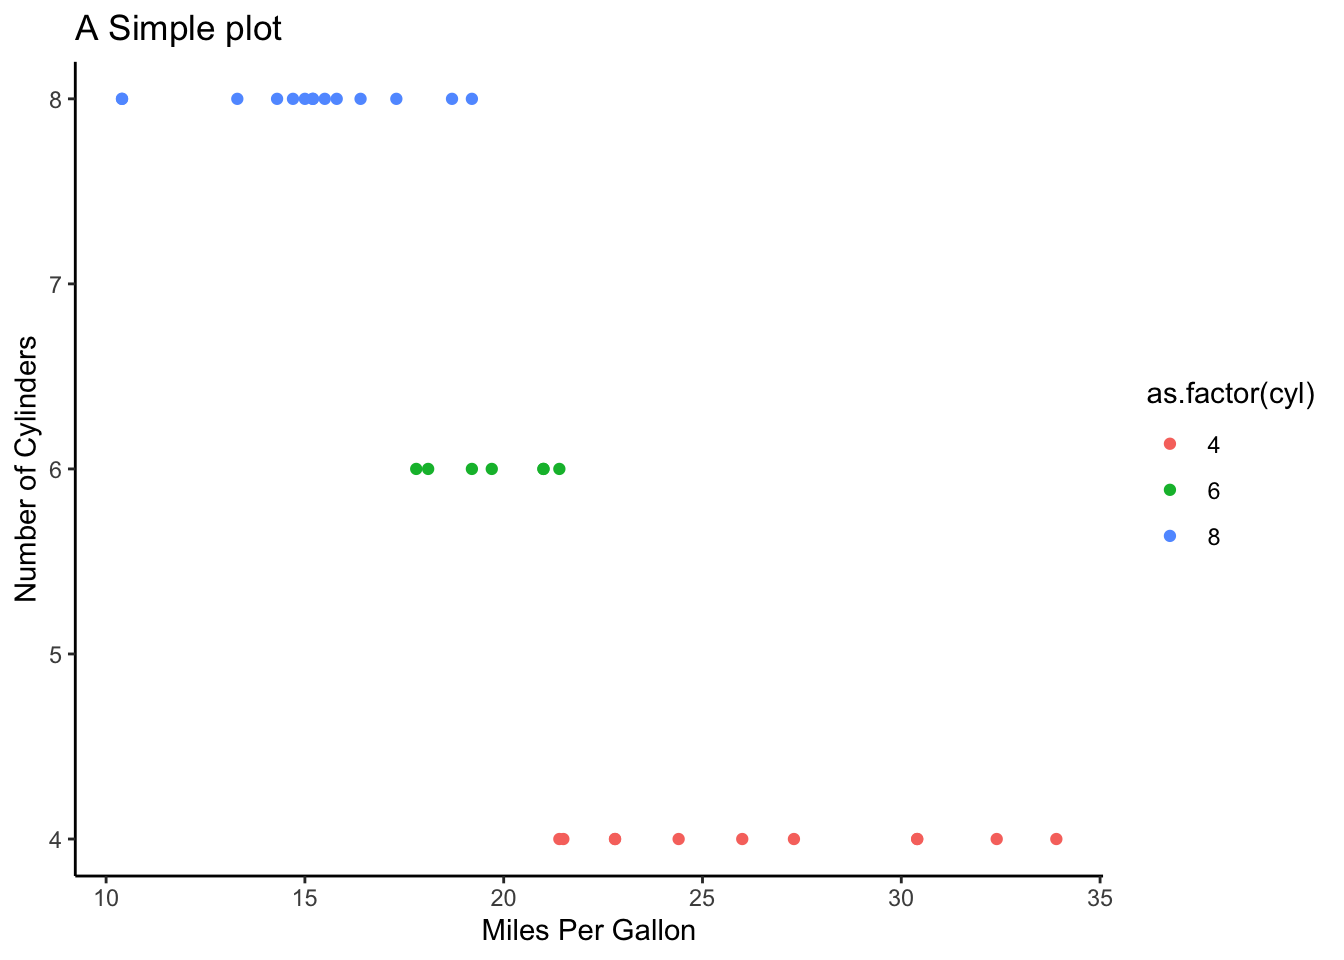
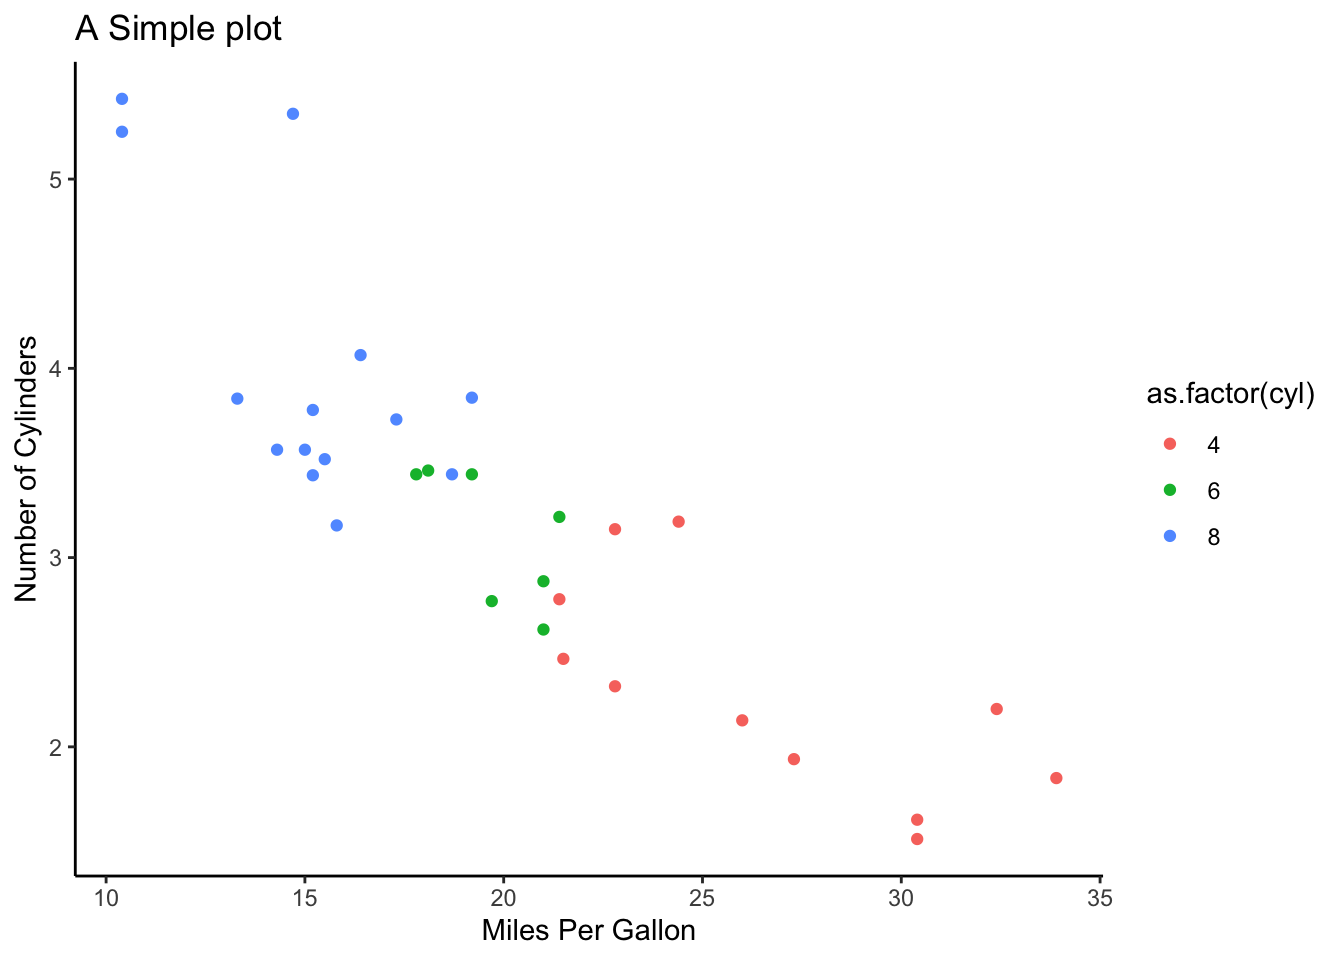
Added proper video / webm support

diff --git a/content/post/2021-05-01-brrr/index.html b/content/post/2021-05-01-brrr/index.html
@@ -30,14 +30,16 @@ end </code></pre>
 <iframe src="https://gfycat.com/ifr/jointslimyaidi" frameborder="0" scrolling="no" width="100%" height="100%" style="position:absolute;top:0;left:0;float:right" allowfullscreen>
 </iframe>
 </div>
-<p>Some additional text here</p>
-<p>to clash with</p>
+<p>What about if I embed it as a video?</p>
+<video width="100%"  autoplay loop>
+<source src="https://thumbs.gfycat.com/JointSlimyAidi-mobile.mp4" type="video/mp4">
+</video>
 <pre class="r"><code># That&#39;s a real shame.
 print(&quot;Sad!&quot;)</code></pre>
 <pre><code>## [1] &quot;Sad!&quot;</code></pre>
 <p>Can I reference the plot <a href="#fig:aplot">1</a> which is right below?</p>
 <pre class="r"><code>library(ggplot2)
-p &lt;- ggplot(mtcars, aes(mpg, cyl, colour = as.factor(cyl))) + 
+p &lt;- ggplot(mtcars, aes(mpg, wt, colour = as.factor(cyl))) + 
   geom_point() + 
   theme_classic() + 
   labs(title = &quot;A Simple plot&quot;, 
@@ -54,7 +56,7 @@ Figure 1: Wow, just look at that plot!
 <pre class="r"><code>plotly::ggplotly(p)</code></pre>
 <div class="figure" style="text-align: center"><span style="display:block;" id="fig:bplot"></span>
 <div id="htmlwidget-1" style="width:672px;height:480px;" class="plotly html-widget"></div>
-<script type="application/json" data-for="htmlwidget-1">{"x":{"data":[{"x":[22.8,24.4,22.8,32.4,30.4,33.9,21.5,27.3,26,30.4,21.4],"y":[4,4,4,4,4,4,4,4,4,4,4],"text":["mpg: 22.8<br />cyl: 4<br />as.factor(cyl): 4","mpg: 24.4<br />cyl: 4<br />as.factor(cyl): 4","mpg: 22.8<br />cyl: 4<br />as.factor(cyl): 4","mpg: 32.4<br />cyl: 4<br />as.factor(cyl): 4","mpg: 30.4<br />cyl: 4<br />as.factor(cyl): 4","mpg: 33.9<br />cyl: 4<br />as.factor(cyl): 4","mpg: 21.5<br />cyl: 4<br />as.factor(cyl): 4","mpg: 27.3<br />cyl: 4<br />as.factor(cyl): 4","mpg: 26.0<br />cyl: 4<br />as.factor(cyl): 4","mpg: 30.4<br />cyl: 4<br />as.factor(cyl): 4","mpg: 21.4<br />cyl: 4<br />as.factor(cyl): 4"],"type":"scatter","mode":"markers","marker":{"autocolorscale":false,"color":"rgba(248,118,109,1)","opacity":1,"size":5.66929133858268,"symbol":"circle","line":{"width":1.88976377952756,"color":"rgba(248,118,109,1)"}},"hoveron":"points","name":"4","legendgroup":"4","showlegend":true,"xaxis":"x","yaxis":"y","hoverinfo":"text","frame":null},{"x":[21,21,21.4,18.1,19.2,17.8,19.7],"y":[6,6,6,6,6,6,6],"text":["mpg: 21.0<br />cyl: 6<br />as.factor(cyl): 6","mpg: 21.0<br />cyl: 6<br />as.factor(cyl): 6","mpg: 21.4<br />cyl: 6<br />as.factor(cyl): 6","mpg: 18.1<br />cyl: 6<br />as.factor(cyl): 6","mpg: 19.2<br />cyl: 6<br />as.factor(cyl): 6","mpg: 17.8<br />cyl: 6<br />as.factor(cyl): 6","mpg: 19.7<br />cyl: 6<br />as.factor(cyl): 6"],"type":"scatter","mode":"markers","marker":{"autocolorscale":false,"color":"rgba(0,186,56,1)","opacity":1,"size":5.66929133858268,"symbol":"circle","line":{"width":1.88976377952756,"color":"rgba(0,186,56,1)"}},"hoveron":"points","name":"6","legendgroup":"6","showlegend":true,"xaxis":"x","yaxis":"y","hoverinfo":"text","frame":null},{"x":[18.7,14.3,16.4,17.3,15.2,10.4,10.4,14.7,15.5,15.2,13.3,19.2,15.8,15],"y":[8,8,8,8,8,8,8,8,8,8,8,8,8,8],"text":["mpg: 18.7<br />cyl: 8<br />as.factor(cyl): 8","mpg: 14.3<br />cyl: 8<br />as.factor(cyl): 8","mpg: 16.4<br />cyl: 8<br />as.factor(cyl): 8","mpg: 17.3<br />cyl: 8<br />as.factor(cyl): 8","mpg: 15.2<br />cyl: 8<br />as.factor(cyl): 8","mpg: 10.4<br />cyl: 8<br />as.factor(cyl): 8","mpg: 10.4<br />cyl: 8<br />as.factor(cyl): 8","mpg: 14.7<br />cyl: 8<br />as.factor(cyl): 8","mpg: 15.5<br />cyl: 8<br />as.factor(cyl): 8","mpg: 15.2<br />cyl: 8<br />as.factor(cyl): 8","mpg: 13.3<br />cyl: 8<br />as.factor(cyl): 8","mpg: 19.2<br />cyl: 8<br />as.factor(cyl): 8","mpg: 15.8<br />cyl: 8<br />as.factor(cyl): 8","mpg: 15.0<br />cyl: 8<br />as.factor(cyl): 8"],"type":"scatter","mode":"markers","marker":{"autocolorscale":false,"color":"rgba(97,156,255,1)","opacity":1,"size":5.66929133858268,"symbol":"circle","line":{"width":1.88976377952756,"color":"rgba(97,156,255,1)"}},"hoveron":"points","name":"8","legendgroup":"8","showlegend":true,"xaxis":"x","yaxis":"y","hoverinfo":"text","frame":null}],"layout":{"margin":{"t":43.7625570776256,"r":7.30593607305936,"b":40.1826484018265,"l":31.4155251141553},"plot_bgcolor":"rgba(255,255,255,1)","paper_bgcolor":"rgba(255,255,255,1)","font":{"color":"rgba(0,0,0,1)","family":"","size":14.6118721461187},"title":{"text":"A Simple plot","font":{"color":"rgba(0,0,0,1)","family":"","size":17.5342465753425},"x":0,"xref":"paper"},"xaxis":{"domain":[0,1],"automargin":true,"type":"linear","autorange":false,"range":[9.225,35.075],"tickmode":"array","ticktext":["10","15","20","25","30","35"],"tickvals":[10,15,20,25,30,35],"categoryorder":"array","categoryarray":["10","15","20","25","30","35"],"nticks":null,"ticks":"outside","tickcolor":"rgba(51,51,51,1)","ticklen":3.65296803652968,"tickwidth":0.66417600664176,"showticklabels":true,"tickfont":{"color":"rgba(77,77,77,1)","family":"","size":11.689497716895},"tickangle":-0,"showline":true,"linecolor":"rgba(0,0,0,1)","linewidth":0.66417600664176,"showgrid":false,"gridcolor":null,"gridwidth":0,"zeroline":false,"anchor":"y","title":{"text":"Miles Per Gallon","font":{"color":"rgba(0,0,0,1)","family":"","size":14.6118721461187}},"hoverformat":".2f"},"yaxis":{"domain":[0,1],"automargin":true,"type":"linear","autorange":false,"range":[3.8,8.2],"tickmode":"array","ticktext":["4","5","6","7","8"],"tickvals":[4,5,6,7,8],"categoryorder":"array","categoryarray":["4","5","6","7","8"],"nticks":null,"ticks":"outside","tickcolor":"rgba(51,51,51,1)","ticklen":3.65296803652968,"tickwidth":0.66417600664176,"showticklabels":true,"tickfont":{"color":"rgba(77,77,77,1)","family":"","size":11.689497716895},"tickangle":-0,"showline":true,"linecolor":"rgba(0,0,0,1)","linewidth":0.66417600664176,"showgrid":false,"gridcolor":null,"gridwidth":0,"zeroline":false,"anchor":"x","title":{"text":"Number of Cylinders","font":{"color":"rgba(0,0,0,1)","family":"","size":14.6118721461187}},"hoverformat":".2f"},"shapes":[{"type":"rect","fillcolor":null,"line":{"color":null,"width":0,"linetype":[]},"yref":"paper","xref":"paper","x0":0,"x1":1,"y0":0,"y1":1}],"showlegend":true,"legend":{"bgcolor":"rgba(255,255,255,1)","bordercolor":"transparent","borderwidth":1.88976377952756,"font":{"color":"rgba(0,0,0,1)","family":"","size":11.689497716895},"y":0.913385826771654},"annotations":[{"text":"as.factor(cyl)","x":1.02,"y":1,"showarrow":false,"ax":0,"ay":0,"font":{"color":"rgba(0,0,0,1)","family":"","size":14.6118721461187},"xref":"paper","yref":"paper","textangle":-0,"xanchor":"left","yanchor":"bottom","legendTitle":true}],"hovermode":"closest","barmode":"relative"},"config":{"doubleClick":"reset","showSendToCloud":false},"source":"A","attrs":{"7955675a230f":{"x":{},"y":{},"colour":{},"type":"scatter"}},"cur_data":"7955675a230f","visdat":{"7955675a230f":["function (y) ","x"]},"highlight":{"on":"plotly_click","persistent":false,"dynamic":false,"selectize":false,"opacityDim":0.2,"selected":{"opacity":1},"debounce":0},"shinyEvents":["plotly_hover","plotly_click","plotly_selected","plotly_relayout","plotly_brushed","plotly_brushing","plotly_clickannotation","plotly_doubleclick","plotly_deselect","plotly_afterplot","plotly_sunburstclick"],"base_url":"https://plot.ly"},"evals":[],"jsHooks":[]}</script>
+<script type="application/json" data-for="htmlwidget-1">{"x":{"data":[{"x":[22.8,24.4,22.8,32.4,30.4,33.9,21.5,27.3,26,30.4,21.4],"y":[2.32,3.19,3.15,2.2,1.615,1.835,2.465,1.935,2.14,1.513,2.78],"text":["mpg: 22.8<br />wt: 2.320<br />as.factor(cyl): 4","mpg: 24.4<br />wt: 3.190<br />as.factor(cyl): 4","mpg: 22.8<br />wt: 3.150<br />as.factor(cyl): 4","mpg: 32.4<br />wt: 2.200<br />as.factor(cyl): 4","mpg: 30.4<br />wt: 1.615<br />as.factor(cyl): 4","mpg: 33.9<br />wt: 1.835<br />as.factor(cyl): 4","mpg: 21.5<br />wt: 2.465<br />as.factor(cyl): 4","mpg: 27.3<br />wt: 1.935<br />as.factor(cyl): 4","mpg: 26.0<br />wt: 2.140<br />as.factor(cyl): 4","mpg: 30.4<br />wt: 1.513<br />as.factor(cyl): 4","mpg: 21.4<br />wt: 2.780<br />as.factor(cyl): 4"],"type":"scatter","mode":"markers","marker":{"autocolorscale":false,"color":"rgba(248,118,109,1)","opacity":1,"size":5.66929133858268,"symbol":"circle","line":{"width":1.88976377952756,"color":"rgba(248,118,109,1)"}},"hoveron":"points","name":"4","legendgroup":"4","showlegend":true,"xaxis":"x","yaxis":"y","hoverinfo":"text","frame":null},{"x":[21,21,21.4,18.1,19.2,17.8,19.7],"y":[2.62,2.875,3.215,3.46,3.44,3.44,2.77],"text":["mpg: 21.0<br />wt: 2.620<br />as.factor(cyl): 6","mpg: 21.0<br />wt: 2.875<br />as.factor(cyl): 6","mpg: 21.4<br />wt: 3.215<br />as.factor(cyl): 6","mpg: 18.1<br />wt: 3.460<br />as.factor(cyl): 6","mpg: 19.2<br />wt: 3.440<br />as.factor(cyl): 6","mpg: 17.8<br />wt: 3.440<br />as.factor(cyl): 6","mpg: 19.7<br />wt: 2.770<br />as.factor(cyl): 6"],"type":"scatter","mode":"markers","marker":{"autocolorscale":false,"color":"rgba(0,186,56,1)","opacity":1,"size":5.66929133858268,"symbol":"circle","line":{"width":1.88976377952756,"color":"rgba(0,186,56,1)"}},"hoveron":"points","name":"6","legendgroup":"6","showlegend":true,"xaxis":"x","yaxis":"y","hoverinfo":"text","frame":null},{"x":[18.7,14.3,16.4,17.3,15.2,10.4,10.4,14.7,15.5,15.2,13.3,19.2,15.8,15],"y":[3.44,3.57,4.07,3.73,3.78,5.25,5.424,5.345,3.52,3.435,3.84,3.845,3.17,3.57],"text":["mpg: 18.7<br />wt: 3.440<br />as.factor(cyl): 8","mpg: 14.3<br />wt: 3.570<br />as.factor(cyl): 8","mpg: 16.4<br />wt: 4.070<br />as.factor(cyl): 8","mpg: 17.3<br />wt: 3.730<br />as.factor(cyl): 8","mpg: 15.2<br />wt: 3.780<br />as.factor(cyl): 8","mpg: 10.4<br />wt: 5.250<br />as.factor(cyl): 8","mpg: 10.4<br />wt: 5.424<br />as.factor(cyl): 8","mpg: 14.7<br />wt: 5.345<br />as.factor(cyl): 8","mpg: 15.5<br />wt: 3.520<br />as.factor(cyl): 8","mpg: 15.2<br />wt: 3.435<br />as.factor(cyl): 8","mpg: 13.3<br />wt: 3.840<br />as.factor(cyl): 8","mpg: 19.2<br />wt: 3.845<br />as.factor(cyl): 8","mpg: 15.8<br />wt: 3.170<br />as.factor(cyl): 8","mpg: 15.0<br />wt: 3.570<br />as.factor(cyl): 8"],"type":"scatter","mode":"markers","marker":{"autocolorscale":false,"color":"rgba(97,156,255,1)","opacity":1,"size":5.66929133858268,"symbol":"circle","line":{"width":1.88976377952756,"color":"rgba(97,156,255,1)"}},"hoveron":"points","name":"8","legendgroup":"8","showlegend":true,"xaxis":"x","yaxis":"y","hoverinfo":"text","frame":null}],"layout":{"margin":{"t":43.7625570776256,"r":7.30593607305936,"b":40.1826484018265,"l":31.4155251141553},"plot_bgcolor":"rgba(255,255,255,1)","paper_bgcolor":"rgba(255,255,255,1)","font":{"color":"rgba(0,0,0,1)","family":"","size":14.6118721461187},"title":{"text":"A Simple plot","font":{"color":"rgba(0,0,0,1)","family":"","size":17.5342465753425},"x":0,"xref":"paper"},"xaxis":{"domain":[0,1],"automargin":true,"type":"linear","autorange":false,"range":[9.225,35.075],"tickmode":"array","ticktext":["10","15","20","25","30","35"],"tickvals":[10,15,20,25,30,35],"categoryorder":"array","categoryarray":["10","15","20","25","30","35"],"nticks":null,"ticks":"outside","tickcolor":"rgba(51,51,51,1)","ticklen":3.65296803652968,"tickwidth":0.66417600664176,"showticklabels":true,"tickfont":{"color":"rgba(77,77,77,1)","family":"","size":11.689497716895},"tickangle":-0,"showline":true,"linecolor":"rgba(0,0,0,1)","linewidth":0.66417600664176,"showgrid":false,"gridcolor":null,"gridwidth":0,"zeroline":false,"anchor":"y","title":{"text":"Miles Per Gallon","font":{"color":"rgba(0,0,0,1)","family":"","size":14.6118721461187}},"hoverformat":".2f"},"yaxis":{"domain":[0,1],"automargin":true,"type":"linear","autorange":false,"range":[1.31745,5.61955],"tickmode":"array","ticktext":["2","3","4","5"],"tickvals":[2,3,4,5],"categoryorder":"array","categoryarray":["2","3","4","5"],"nticks":null,"ticks":"outside","tickcolor":"rgba(51,51,51,1)","ticklen":3.65296803652968,"tickwidth":0.66417600664176,"showticklabels":true,"tickfont":{"color":"rgba(77,77,77,1)","family":"","size":11.689497716895},"tickangle":-0,"showline":true,"linecolor":"rgba(0,0,0,1)","linewidth":0.66417600664176,"showgrid":false,"gridcolor":null,"gridwidth":0,"zeroline":false,"anchor":"x","title":{"text":"Number of Cylinders","font":{"color":"rgba(0,0,0,1)","family":"","size":14.6118721461187}},"hoverformat":".2f"},"shapes":[{"type":"rect","fillcolor":null,"line":{"color":null,"width":0,"linetype":[]},"yref":"paper","xref":"paper","x0":0,"x1":1,"y0":0,"y1":1}],"showlegend":true,"legend":{"bgcolor":"rgba(255,255,255,1)","bordercolor":"transparent","borderwidth":1.88976377952756,"font":{"color":"rgba(0,0,0,1)","family":"","size":11.689497716895},"y":0.913385826771654},"annotations":[{"text":"as.factor(cyl)","x":1.02,"y":1,"showarrow":false,"ax":0,"ay":0,"font":{"color":"rgba(0,0,0,1)","family":"","size":14.6118721461187},"xref":"paper","yref":"paper","textangle":-0,"xanchor":"left","yanchor":"bottom","legendTitle":true}],"hovermode":"closest","barmode":"relative"},"config":{"doubleClick":"reset","showSendToCloud":false},"source":"A","attrs":{"56d5508c17d4":{"x":{},"y":{},"colour":{},"type":"scatter"}},"cur_data":"56d5508c17d4","visdat":{"56d5508c17d4":["function (y) ","x"]},"highlight":{"on":"plotly_click","persistent":false,"dynamic":false,"selectize":false,"opacityDim":0.2,"selected":{"opacity":1},"debounce":0},"shinyEvents":["plotly_hover","plotly_click","plotly_selected","plotly_relayout","plotly_brushed","plotly_brushing","plotly_clickannotation","plotly_doubleclick","plotly_deselect","plotly_afterplot","plotly_sunburstclick"],"base_url":"https://plot.ly"},"evals":[],"jsHooks":[]}</script>
 <p class="caption">
 Figure 2: Wow, now this plot is interactive!
 </p>
